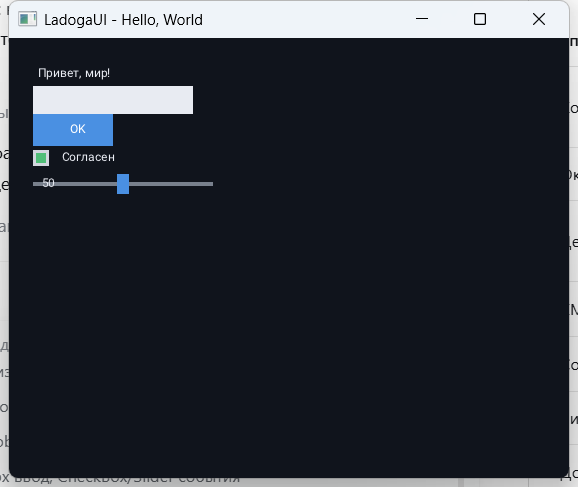
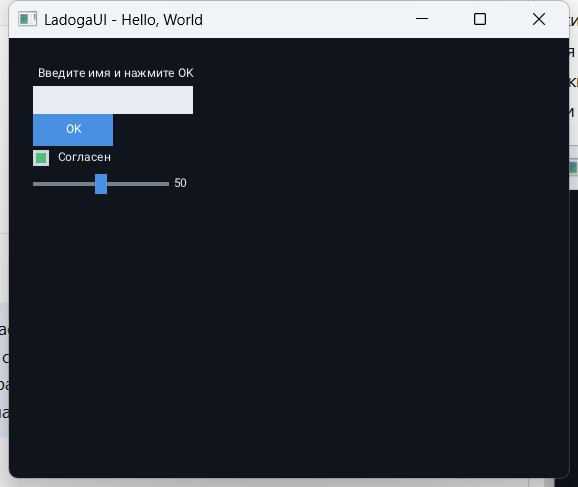
fix: align text caret and slider value

diff --git a/src/slider.cpp b/src/slider.cpp
@@ -8,6 +8,13 @@
 
 namespace ladoga {
 
+namespace {
+
+constexpr int value_area_width = 44;
+constexpr int handle_width = 12;
+
+} // namespace
+
 int Slider::value() const noexcept { return value_; }
 
 int Slider::min() const noexcept { return min_; }
@@ -66,25 +73,31 @@ bool Slider::on_event(const Event& event) {
 }
 
 void Slider::paint_self(Renderer& renderer) {
+    const int track = track_width();
     const int track_y = bounds().y + bounds().height / 2 - 2;
-    renderer.draw_rect({bounds().x, track_y, bounds().width, 4}, Color{120, 128, 140, 255});
+    renderer.draw_rect({bounds().x, track_y, track, 4}, Color{120, 128, 140, 255});
 
     const int span = max_ - min_;
     const float ratio = span == 0 ? 0.0F : static_cast<float>(value_ - min_) / span;
-    const int handle_width = 12;
-    const int handle_x = bounds().x + static_cast<int>(ratio * (bounds().width - handle_width));
+    const int handle_x = bounds().x + static_cast<int>(ratio * (track - handle_width));
     renderer.draw_rect({handle_x, bounds().y + 4, handle_width, bounds().height - 8},
                        Color{74, 144, 226, 255});
-    renderer.draw_text({bounds().x + 4, bounds().y, bounds().width - 8, bounds().height},
-                       std::to_string(value_), Color{235, 238, 245, 255});
+
+    const int value_x = bounds().x + track + 4;
+    const int value_width = bounds().right() - value_x;
+    if (value_width > 0) {
+        renderer.draw_text({value_x, bounds().y, value_width, bounds().height},
+                           std::to_string(value_), Color{235, 238, 245, 255});
+    }
 }
 
 void Slider::update_from_position(int x) {
-    if (bounds().width <= 0 || max_ <= min_) {
+    const int track = track_width();
+    if (track <= 0 || max_ <= min_) {
         return;
     }
     const float ratio =
-        std::clamp(static_cast<float>(x - bounds().x) / bounds().width, 0.0F, 1.0F);
+        std::clamp(static_cast<float>(x - bounds().x) / track, 0.0F, 1.0F);
     const int next = min_ + static_cast<int>(ratio * static_cast<float>(max_ - min_) + 0.5F);
     if (next != value_) {
         value_ = next;
@@ -92,6 +105,10 @@ void Slider::update_from_position(int x) {
             value_changed(value_);
         }
     }
+}
+
+int Slider::track_width() const {
+    return std::max(20, bounds().width - value_area_width);
 }
 
 } // namespace ladoga

diff --git a/src/render/font.cpp b/src/render/font.cpp
@@ -112,6 +112,32 @@ Font::~Font() = default;
 
 bool Font::valid() const noexcept { return impl_->valid; }
 
+int Font::text_width(std::string_view text, int pixel_height) const {
+    if (!impl_->valid || text.empty() || pixel_height <= 0) {
+        return 0;
+    }
+    const auto codepoints = decode_utf8(text);
+    if (codepoints.empty()) {
+        return 0;
+    }
+
+    const float scale = stbtt_ScaleForPixelHeight(&impl_->info, static_cast<float>(pixel_height));
+    double width = 0.0;
+    for (std::size_t i = 0; i < codepoints.size(); ++i) {
+        int advance = 0;
+        int left_bearing = 0;
+        stbtt_GetCodepointHMetrics(&impl_->info, codepoints[i], &advance, &left_bearing);
+        width += static_cast<double>(advance) * scale;
+        if (i + 1 < codepoints.size()) {
+            width += static_cast<double>(
+                         stbtt_GetCodepointKernAdvance(&impl_->info, codepoints[i],
+                                                       codepoints[i + 1])) *
+                     scale;
+        }
+    }
+    return static_cast<int>(std::ceil(width));
+}
+
 Font::Bitmap Font::render(std::string_view text, int pixel_height, Color color) const {
     Bitmap bitmap;
     if (!impl_->valid || text.empty() || pixel_height <= 0) {

diff --git a/src/render/opengl_renderer.cpp b/src/render/opengl_renderer.cpp
@@ -70,7 +70,7 @@ void OpenGLRenderer::draw_text(const Rect& rect, std::string_view text, Color co
     glTexImage2D(GL_TEXTURE_2D, 0, GL_RGBA, bitmap.width, bitmap.height, 0, GL_RGBA,
                  GL_UNSIGNED_BYTE, bitmap.pixels.data());
 
-    const int x = rect.x + 4;
+    const int x = rect.x;
     const int y = rect.y + (rect.height - bitmap.height) / 2;
     const float x2 = static_cast<float>(x + bitmap.width);
     const float y2 = static_cast<float>(y + bitmap.height);
@@ -96,5 +96,9 @@ void OpenGLRenderer::draw_text(const Rect& rect, std::string_view text, Color co
 }
 
 void OpenGLRenderer::end_frame() {}
+
+int OpenGLRenderer::text_width(std::string_view text) const {
+    return font_.text_width(text, text_pixel_height);
+}
 
 } // namespace ladoga

diff --git a/src/button.cpp b/src/button.cpp
@@ -46,7 +46,7 @@ void Button::paint_self(Renderer& renderer) {
     const Color color = pressed_ ? Color{50, 105, 180, 255} : Color{74, 144, 226, 255};
     renderer.draw_rect(bounds(), color);
 
-    const int text_width = approximate_text_width(text_);
+    const int text_width = renderer.text_width(text_);
     const int x = bounds().x + std::max(4, (bounds().width - text_width) / 2);
     renderer.draw_text({x, bounds().y, bounds().width - (x - bounds().x), bounds().height}, text_,
                        Color::white());

diff --git a/src/text_box.cpp b/src/text_box.cpp
@@ -74,7 +74,7 @@ void TextBox::paint_self(Renderer& renderer) {
     renderer.draw_text({bounds().x + 6, bounds().y, bounds().width - 12, bounds().height}, text_,
                        Color{24, 28, 36, 255});
     if (focused_) {
-        const int cursor_x = bounds().x + 6 + approximate_text_width(text_);
+        const int cursor_x = bounds().x + 6 + renderer.text_width(text_);
         renderer.draw_rect({cursor_x, bounds().y + 6, 2, bounds().height - 12},
                            Color{30, 70, 140, 255});
     }

diff --git a/src/label.cpp b/src/label.cpp
@@ -24,7 +24,8 @@ Size Label::preferred_size() const {
 }
 
 void Label::paint_self(Renderer& renderer) {
-    renderer.draw_text(bounds(), text_, Color{235, 238, 245, 255});
+    renderer.draw_text({bounds().x + 4, bounds().y, bounds().width - 4, bounds().height}, text_,
+                       Color{235, 238, 245, 255});
 }
 
 } // namespace ladoga

diff --git a/include/ladoga/renderer.h b/include/ladoga/renderer.h
@@ -17,6 +17,7 @@ public:
     virtual void begin_frame(Color clear_color) = 0;
     virtual void draw_rect(const Rect& rect, Color color) = 0;
     virtual void draw_text(const Rect& rect, std::string_view text, Color color) = 0;
+    virtual int text_width(std::string_view text) const = 0;
     virtual void end_frame() = 0;
 };
 

diff --git a/src/render/opengl_renderer.h b/src/render/opengl_renderer.h
@@ -17,6 +17,7 @@ public:
     void begin_frame(Color clear_color) override;
     void draw_rect(const Rect& rect, Color color) override;
     void draw_text(const Rect& rect, std::string_view text, Color color) override;
+    int text_width(std::string_view text) const override;
     void end_frame() override;
 
 private:

diff --git a/src/render/font.h b/src/render/font.h
@@ -25,6 +25,7 @@ public:
     Font& operator=(const Font&) = delete;
 
     [[nodiscard]] bool valid() const noexcept;
+    [[nodiscard]] int text_width(std::string_view text, int pixel_height) const;
     [[nodiscard]] Bitmap render(std::string_view text, int pixel_height, Color color) const;
 
 private:

diff --git a/include/ladoga/slider.h b/include/ladoga/slider.h
@@ -28,6 +28,7 @@ protected:
 
 private:
     void update_from_position(int x);
+    [[nodiscard]] int track_width() const;
 
     int value_ = 0;
     int min_ = 0;

diff --git a/docs/widgets/text_box.md b/docs/widgets/text_box.md
@@ -20,6 +20,7 @@
 - клик по TextBox ставит фокус;
 - печатный текст добавляется в конец строки;
 - Backspace удаляет последний символ UTF-8;
+- каретка рисуется сразу после текста с учётом реальной ширины шрифта;
 - Enter пока не обрабатывается;
 - программный `set_text()` не вызывает `text_changed`.
 

diff --git a/docs/widgets/slider.md b/docs/widgets/slider.md
@@ -18,6 +18,8 @@
 | `Margin` | `set_margin` | int / 4 int | 0 |
 
 `Value` зажимается в `[Min, Max]`. Если `Min > Max`, XML-загрузка выдаёт ошибку.
+Значение рисуется справа от дорожки, отдельной областью, поэтому не
+перекрывается полоской слайдера.
 
 ## Событие value_changed
 
